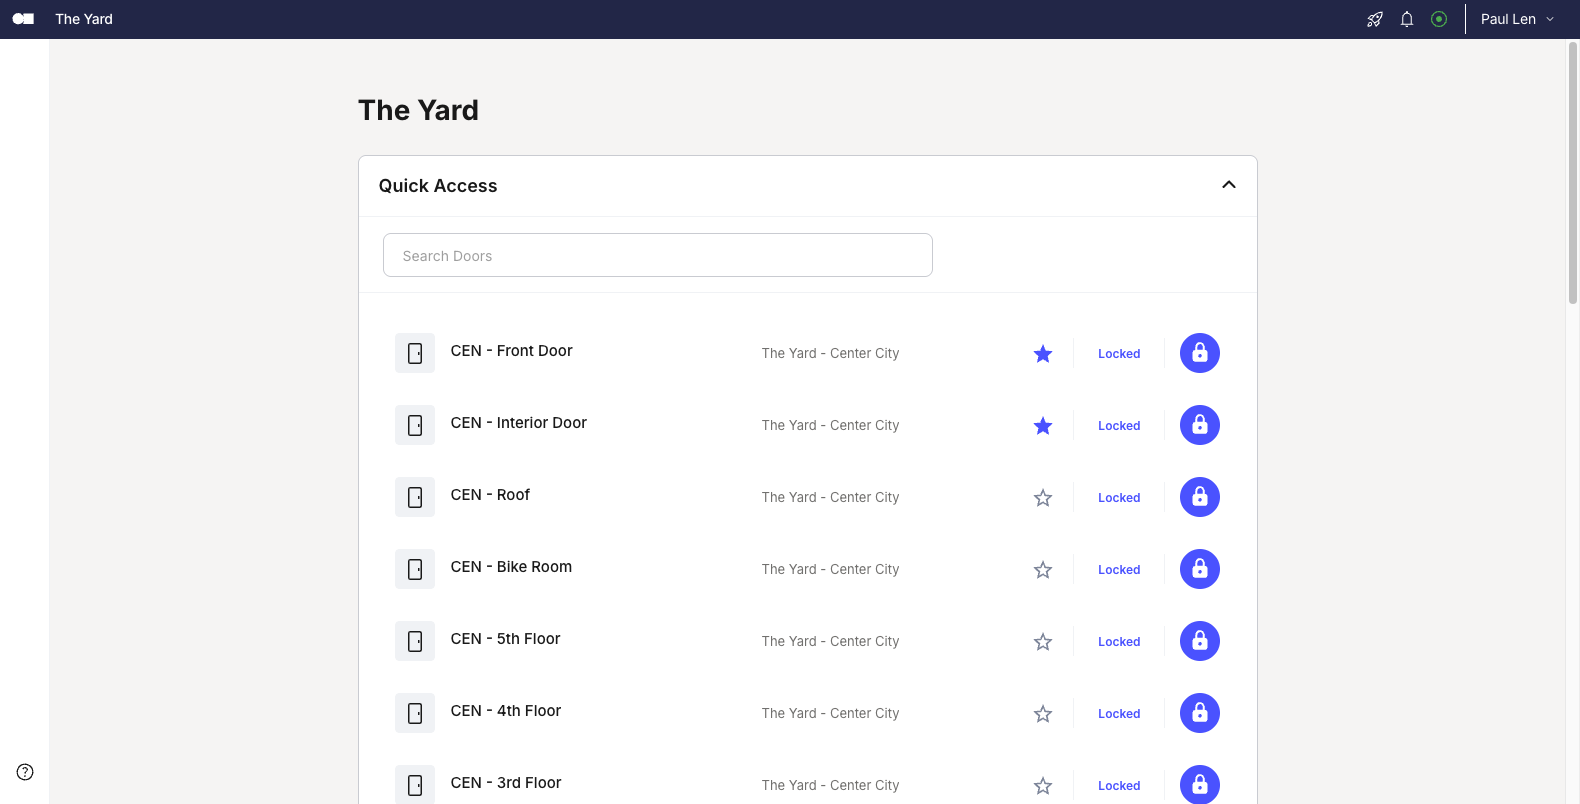
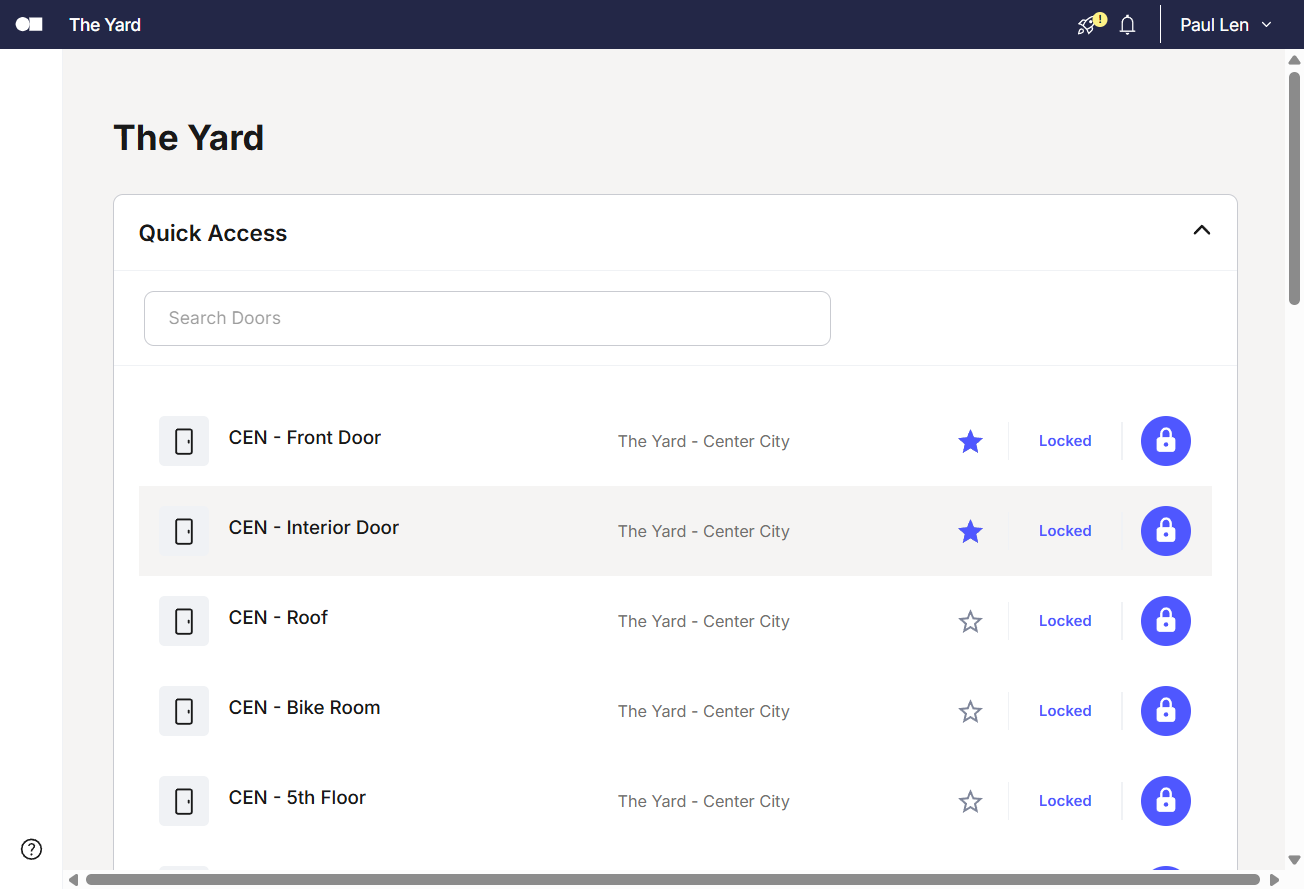
lfg

diff --git a/BuzzButton.js b/BuzzButton.js
@@ -71,7 +71,11 @@ async function pressButtons(page) {
       if (buttonsWithLockIcon.length > 0) {
         // Return the IDs of the buttons we found so we can click them from outside
         const buttonIds = [];
-        for (let i = 0; i < Math.min(2, buttonsWithLockIcon.length); i++) {
+        // Select 2nd and 3rd buttons (index 1 and 2) if available
+        const startIndex = Math.min(1, buttonsWithLockIcon.length - 1); // Start from index 1 if possible
+        const endIndex = Math.min(startIndex + 2, buttonsWithLockIcon.length); // Get up to 2 buttons
+        
+        for (let i = startIndex; i < endIndex; i++) {
           // Add a unique ID to each button so we can find it later
           const uniqueId = 'unlock-btn-' + i;
           buttonsWithLockIcon[i].setAttribute('id', uniqueId);
@@ -165,15 +169,18 @@ async function pressButtons(page) {
           // Function to click buttons simultaneously
           const clickButtons = (buttonArray) => {
             if (buttonArray.length > 0) {
-              // Click buttons simultaneously
-              if (buttonArray[0]) {
-                console.log('Clicking first button');
-                buttonArray[0].click();
+              // Click 2nd and 3rd buttons if available (index 1 and 2)
+              const secondButtonIndex = Math.min(1, buttonArray.length - 1);
+              const thirdButtonIndex = Math.min(2, buttonArray.length - 1);
+              
+              if (buttonArray[secondButtonIndex]) {
+                console.log('Clicking second button');
+                buttonArray[secondButtonIndex].click();
                 clickedAny = true;
               }
-              if (buttonArray[1]) {
-                console.log('Clicking second button');
-                buttonArray[1].click();
+              if (buttonArray[thirdButtonIndex] && secondButtonIndex !== thirdButtonIndex) {
+                console.log('Clicking third button');
+                buttonArray[thirdButtonIndex].click();
                 clickedAny = true;
               }
             }
@@ -207,8 +214,12 @@ async function pressButtons(page) {
                 
                 // Make sure the clicks register by clicking again
                 setTimeout(() => {
-                  if (possibleLockButtons[0]) possibleLockButtons[0].click();
-                  if (possibleLockButtons[1]) possibleLockButtons[1].click();
+                  const secondButtonIndex = Math.min(1, possibleLockButtons.length - 1);
+                  const thirdButtonIndex = Math.min(2, possibleLockButtons.length - 1);
+                  
+                  if (possibleLockButtons[secondButtonIndex]) possibleLockButtons[secondButtonIndex].click();
+                  if (possibleLockButtons[thirdButtonIndex] && secondButtonIndex !== thirdButtonIndex) 
+                    possibleLockButtons[thirdButtonIndex].click();
                 }, 500);
               }
             }
@@ -254,18 +265,7 @@ async function pressButtons(page) {
         // Create an array to hold our click promises
         const clickPromises = [];
         
-        // Try to click the first button
-        if (freshButtons.length > 0) {
-          console.log('Clicking first button with primary selector');
-          clickPromises.push(freshButtons[0].click().catch(e => console.error('Error clicking first button with primary selector:', e)));
-        } else if (altButtons.length > 0) {
-          console.log('Clicking first button with alternative selector');
-          clickPromises.push(altButtons[0].click().catch(e => console.error('Error clicking first button with alternative selector:', e)));
-        } else {
-          console.log(`No first button found for click ${i+1}`);
-        }
-        
-        // Try to click the second button
+        // Try to click the first button (now targeting the 2nd button)
         if (freshButtons.length > 1) {
           console.log('Clicking second button with primary selector');
           clickPromises.push(freshButtons[1].click().catch(e => console.error('Error clicking second button with primary selector:', e)));
@@ -276,6 +276,17 @@ async function pressButtons(page) {
           console.log(`No second button found for click ${i+1}`);
         }
         
+        // Try to click the second button (now targeting the 3rd button)
+        if (freshButtons.length > 2) {
+          console.log('Clicking third button with primary selector');
+          clickPromises.push(freshButtons[2].click().catch(e => console.error('Error clicking third button with primary selector:', e)));
+        } else if (altButtons.length > 2) {
+          console.log('Clicking third button with alternative selector');
+          clickPromises.push(altButtons[2].click().catch(e => console.error('Error clicking third button with alternative selector:', e)));
+        } else {
+          console.log(`No third button found for click ${i+1}`);
+        }
+        
         // Execute all clicks simultaneously
         if (clickPromises.length > 0) {
           await Promise.all(clickPromises);
@@ -284,8 +295,8 @@ async function pressButtons(page) {
           // Follow up with direct DOM clicks for redundancy
           await page.evaluate(() => {
             const unlockButtons = document.querySelectorAll('button[data-test-id="unlock-button"]');
-            if (unlockButtons[0]) unlockButtons[0].click();
-            if (unlockButtons[1]) unlockButtons[1].click();
+            if (unlockButtons.length > 1) unlockButtons[1].click(); // 2nd button
+            if (unlockButtons.length > 2) unlockButtons[2].click(); // 3rd button
           });
         } else {
           // If no buttons were found with standard selectors, try page.evaluate as a fallback
@@ -297,8 +308,8 @@ async function pressButtons(page) {
             });
             
             // Click buttons simultaneously
-            if (lockButtons[0]) lockButtons[0].click();
-            if (lockButtons[1]) lockButtons[1].click();
+            if (lockButtons.length > 1) lockButtons[1].click(); // 2nd button
+            if (lockButtons.length > 2) lockButtons[2].click(); // 3rd button
           });
         }
       } catch (e) {
